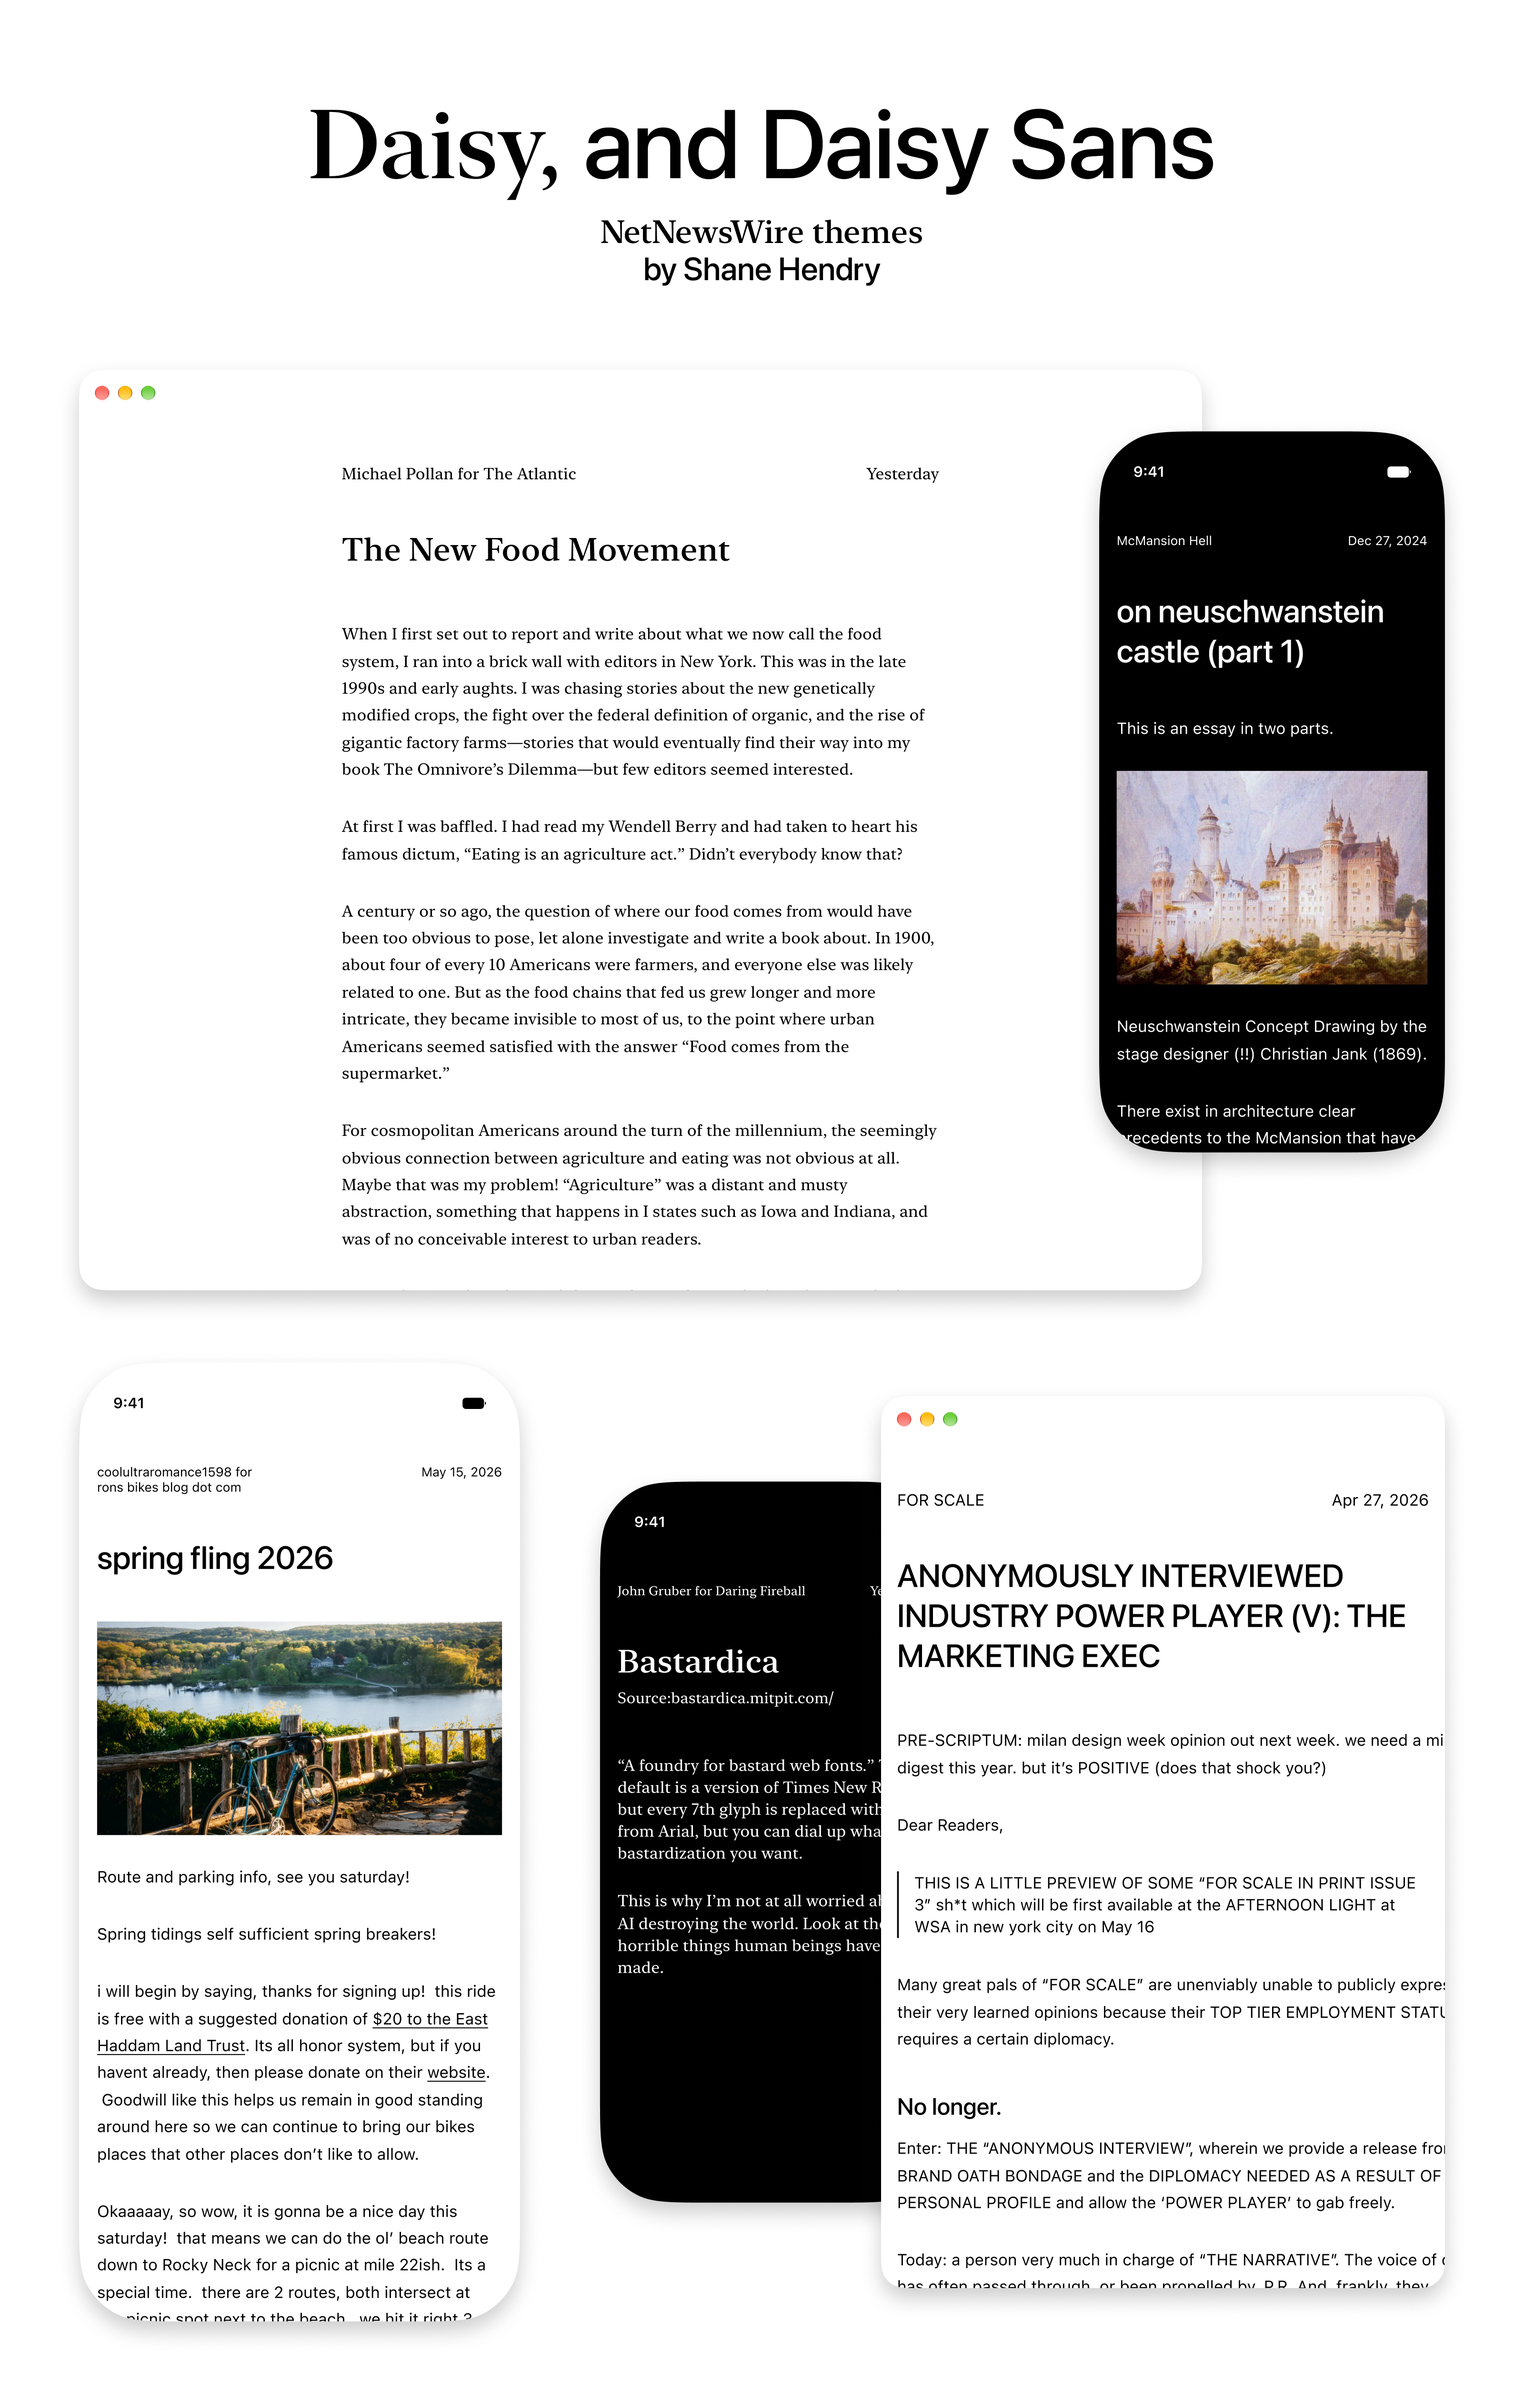
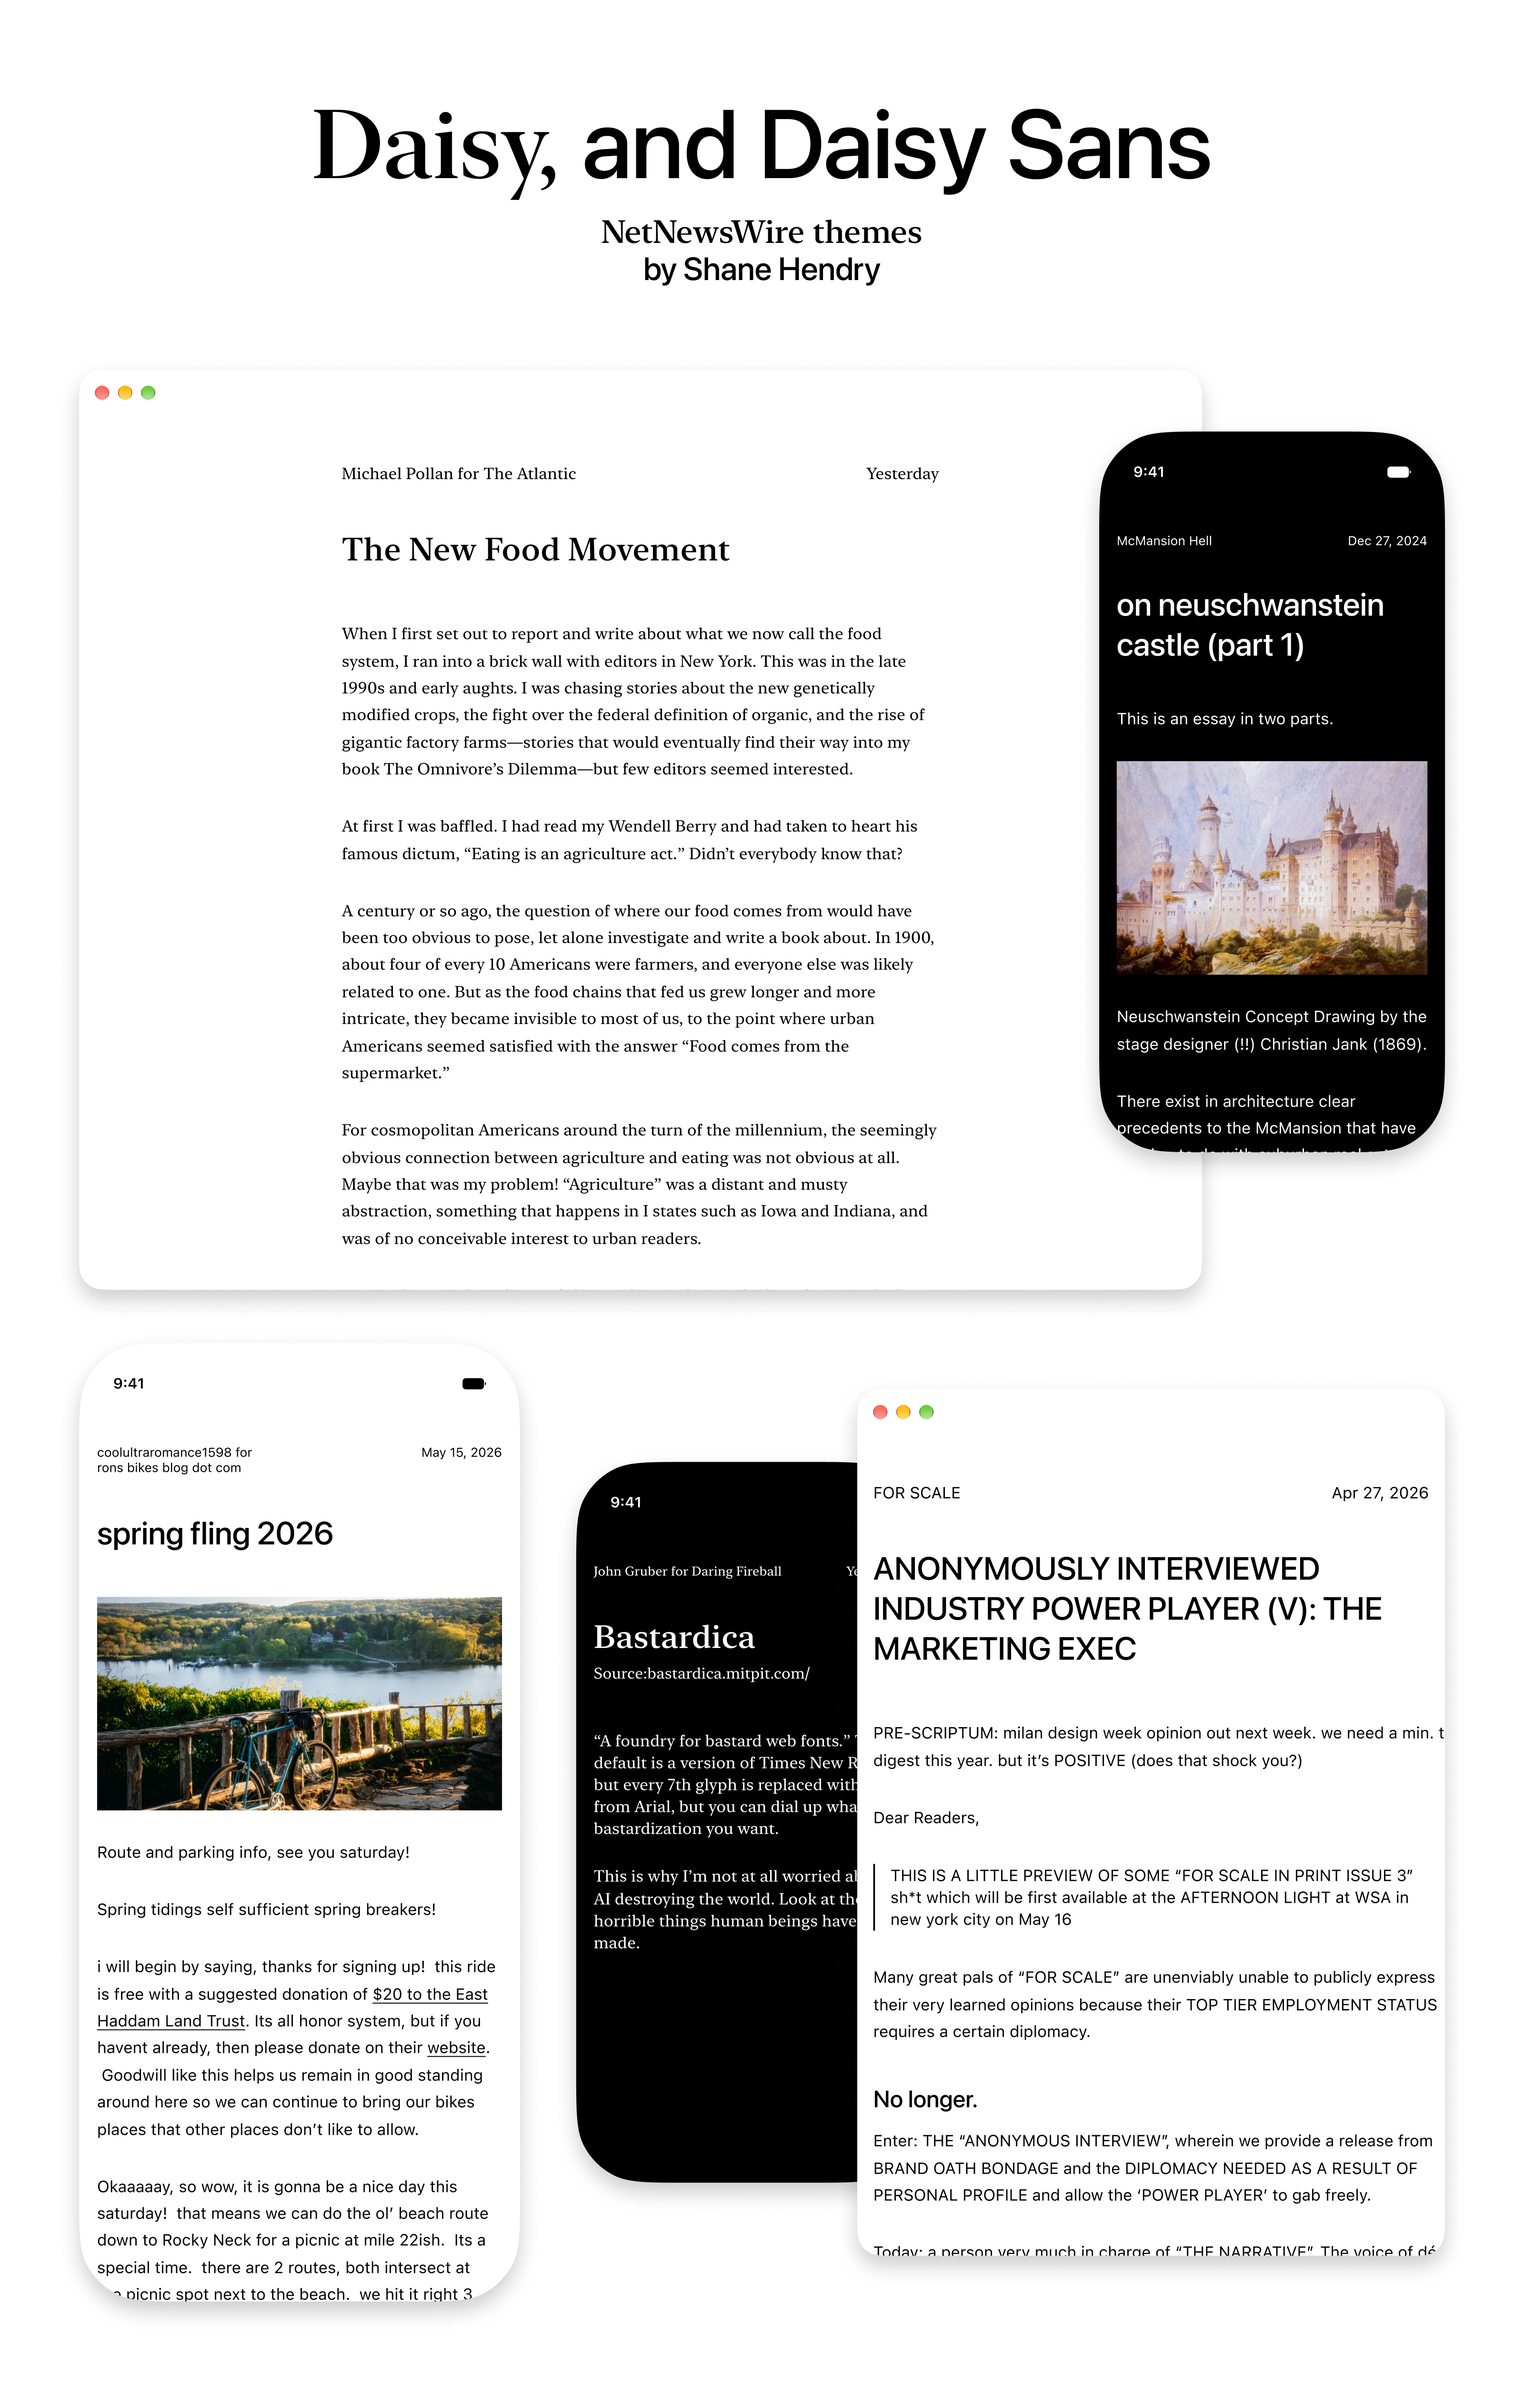
Update the hero screenshot and README text

diff --git a/README.md b/README.md
@@ -25,7 +25,7 @@ Favorite writers and bloggers also get extra special treatment in both:
 - Reformats podcast and sponsor labels from [Daring Fireball](https://daringfireball.net), [Six Colors](https://sixcolors.com), and more
 - Reformats "issue" numbers for feeds like [Snake](https://snake.substack.com)
 - Treats [Daring Fireball's](https://daringfireball.net) self-linking posts uniquely, forgive me John
-- Cleans up funky Squarespace stuff
+- Cleans up funky Squarespace and wordpress stuff
 
 ## Install
 
